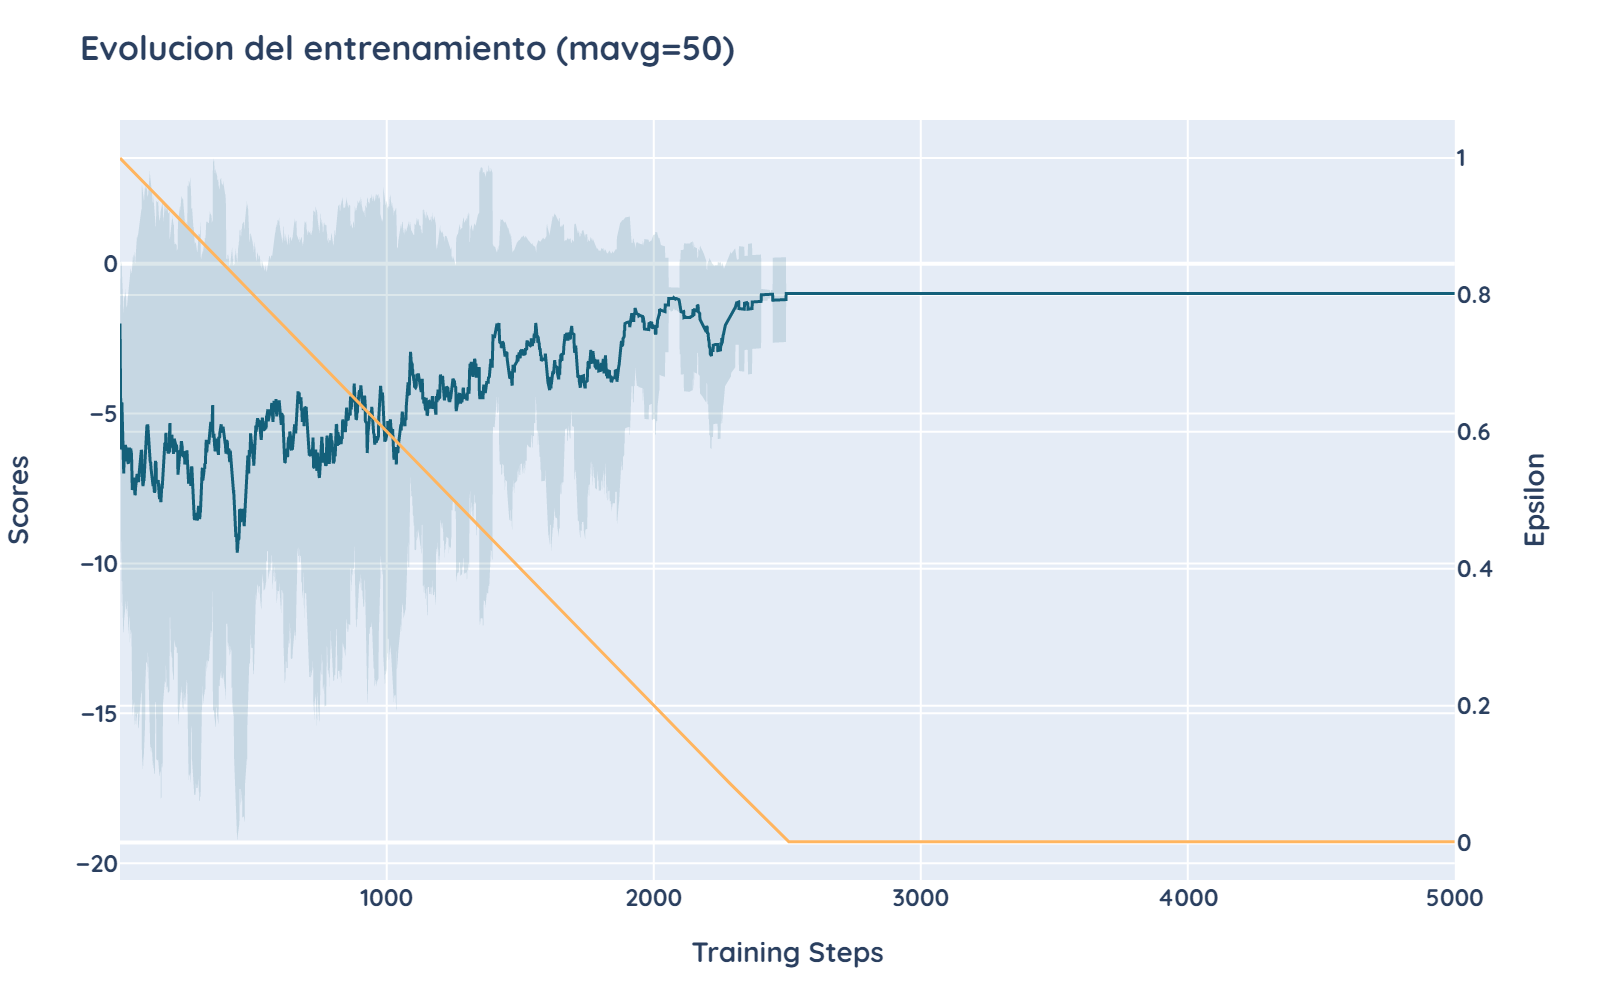
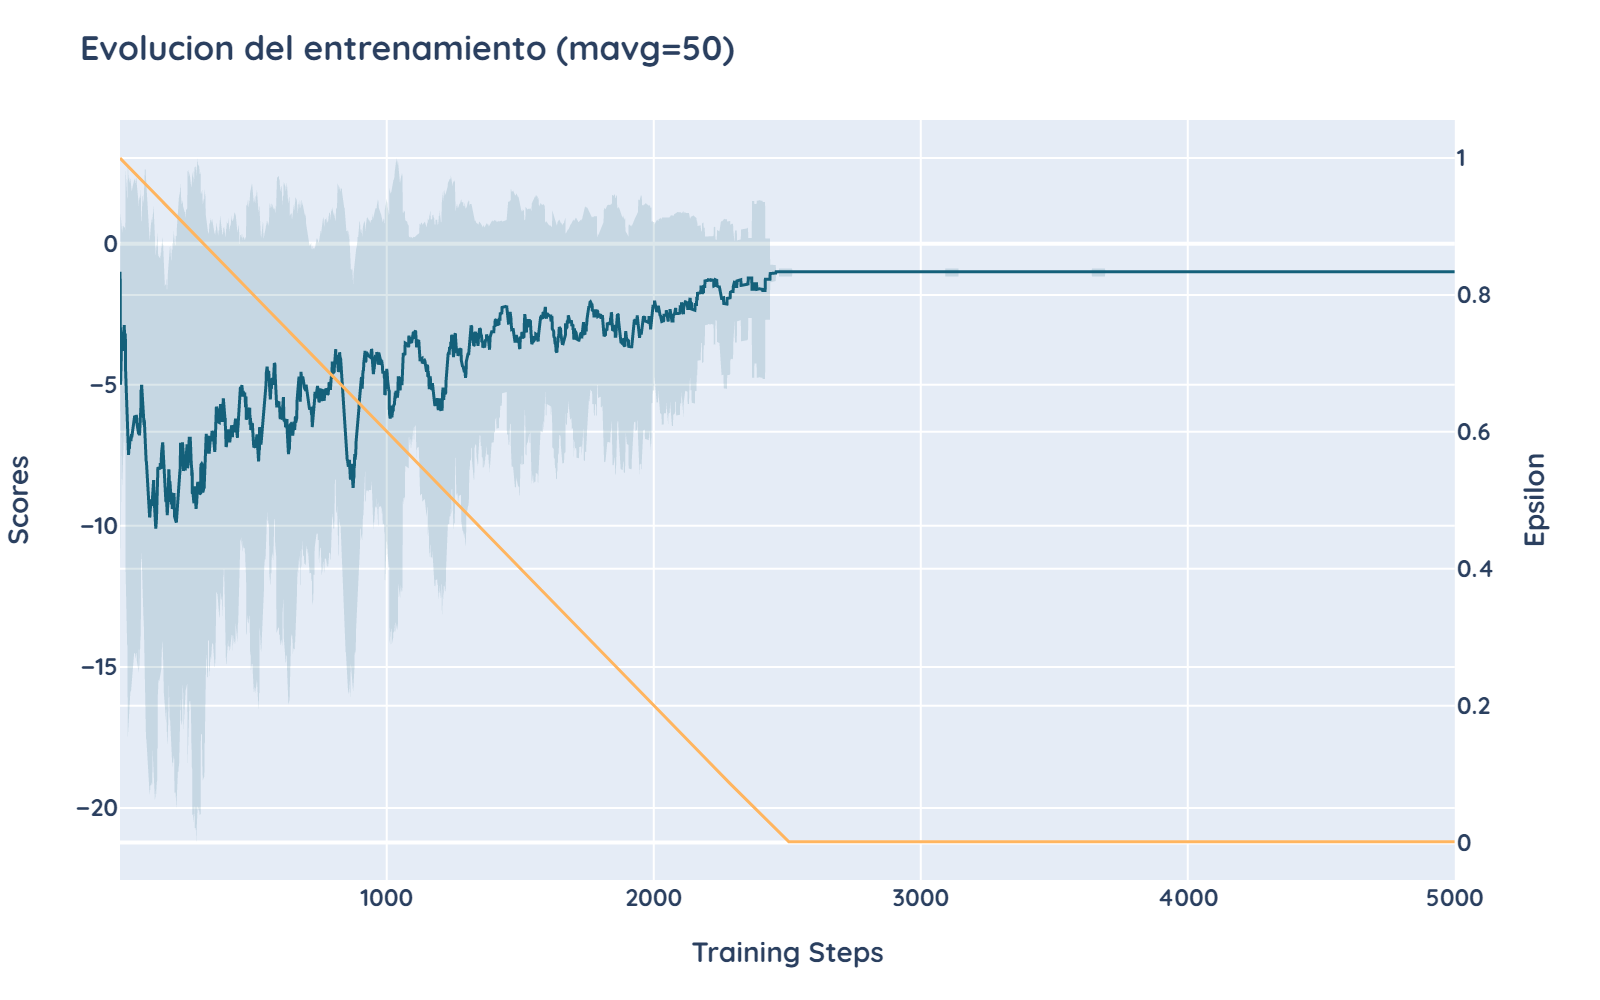
Validaciones de parametros iniciales

Changed region(s): [[0.0625, 0.155, 0.9062, 0.837], [0.0625, 0.806, 0.0938, 0.868]]

diff --git a/modelo_rl/modelo_rl/examples/modulo.py b/modelo_rl/modelo_rl/examples/modulo.py
@@ -4,11 +4,11 @@ import os
 
 path = os.path.dirname(os.path.abspath(__file__))
 
-ejemplo2 = np.array([{'id': 'uio1-port1', 'bw': 126, 'congestionado': False, 'region': 'uio', 'capacidad': 200},
+ejemplo2 = np.array([{'id': 'uio1-port1', 'bw': 199, 'congestionado': True, 'region': 'uio', 'capacidad': 200},
                      {'id': 'uio1-port2', 'bw': 29, 'congestionado': False, 'region': 'uio', 'capacidad': 100},
                      {'id': 'uio1-port3', 'bw': 49, 'congestionado': True, 'region': 'uio', 'capacidad': 50},
                      {'id': 'uio1-port4', 'bw': 27, 'congestionado': False, 'region': 'uio', 'capacidad': 50},
-                     {'id': 'uio1-port5', 'bw': 49, 'congestionado': True, 'region': 'uio', 'capacidad': 50},
+                     {'id': 'uio1-port5', 'bw': 29, 'congestionado': False, 'region': 'uio', 'capacidad': 50},
                      {'id': 'uio1-port6', 'bw': 29, 'congestionado': False, 'region': 'uio', 'capacidad': 60},
                      {'id': 'uio2-port1', 'bw': 119, 'congestionado': False, 'region': 'uio', 'capacidad': 200},
                      {'id': 'uio2-port2', 'bw': 129, 'congestionado': False, 'region': 'uio', 'capacidad': 200},
@@ -19,5 +19,5 @@ ejemplo2 = np.array([{'id': 'uio1-port1', 'bw': 126, 'congestionado': False, 're
                      {'id': 'gye2-port1', 'bw': 19, 'congestionado': False, 'region': 'gye', 'capacidad': 200},
                      {'id': 'gye3-port1', 'bw': 19, 'congestionado': False, 'region': 'gye', 'capacidad': 100}
                      ])
-acciones, _, _, _, _ = modelo_rl.solve_congestion(ejemplo2, path, log_it=False, epoch=5000)
+acciones, _, _, _, _ = modelo_rl.solve_congestion(ejemplo2, path, debug=True, epoch=5000)
 print(acciones)

diff --git a/modelo_rl/modelo_rl/plotter.py b/modelo_rl/modelo_rl/plotter.py
@@ -94,16 +94,16 @@ def plot_multi(plots, title, y_title, x_title, window=20, filename="learning_rat
             fillcolor=lower_opacity(color, 0.15),
             name=lr
         )
-        upper = go.Scatter(
-            x=obj['x'], y=upper_band, showlegend=False,
-            line={'color': color, 'width': 0},
-            fillcolor=lower_opacity(color, 0.15),
-        )
-        lower = go.Scatter(
-            x=obj['x'], y=lower_band, showlegend=False,
-            line={'color': color, 'width': 0},
-            fill='tonexty', fillcolor=lower_opacity(color, 0.15),
-        )
+        # upper = go.Scatter(
+        #     x=obj['x'], y=upper_band, showlegend=False,
+        #     line={'color': color, 'width': 0},
+        #     fillcolor=lower_opacity(color, 0.15),
+        # )
+        # lower = go.Scatter(
+        #     x=obj['x'], y=lower_band, showlegend=False,
+        #     line={'color': color, 'width': 0},
+        #     fill='tonexty', fillcolor=lower_opacity(color, 0.15),
+        # )
         data.append(graph)
         # data.append(upper)
         # data.append(lower)

diff --git a/modelo_rl/modelo_rl/main.py b/modelo_rl/modelo_rl/main.py
@@ -37,7 +37,7 @@ def get_excess(links):
     return excesos, disponibles
 
 
-def solve_congestion(links, path, log_it=False, epoch=1000) -> (list, list, list, list, str):
+def solve_congestion(links, path, debug=False, segments=100, epoch=1000) -> (list, list, list, list, str):
     # === Validacion inicial
     exceso, capacidad_disponible = get_excess(links)
 
@@ -50,7 +50,7 @@ def solve_congestion(links, path, log_it=False, epoch=1000) -> (list, list, list
         save_links(links, path)
         env = QNEnv(links=links)
         agent = QNAgent(env=env, epsilon=1.0, eps_min=0.001, lr=0.1, discount=1.0)
-        return agent.learn(path, log_it, epoch=epoch)
+        return agent.learn(path, debug=debug, segments=segments, epoch=epoch)
 
 
 def save_links(links, path):

diff --git a/modelo_rl/modelo_rl/q_learn_environment.py b/modelo_rl/modelo_rl/q_learn_environment.py
@@ -86,7 +86,7 @@ class QNEnv(object):
 
         # === Rueditas de seguridad por si el primer paso es un estado terminal
         if self.is_terminal_state():
-            return self.current_state, 0, True, "Environment is in terminal state already!"
+            return self.current_state, 0, True, f"Environment is in terminal state already!. {self.links}"
 
         # === Informativo
         self.chosen_idx = chosen_action
@@ -138,6 +138,7 @@ class QNEnv(object):
         """
         self.links = get_training_links() if links is None else links
         self.initial_state = self.get_current_state()
+        self.current_state = self.initial_state
         return self.initial_state
 
     def render(self, title):

diff --git a/modelo_rl/modelo_rl/q_learn_agent.py b/modelo_rl/modelo_rl/q_learn_agent.py
@@ -88,6 +88,8 @@ class QNAgent(object):
 
                 # === Realiza un step en el environment
                 observation_, reward, done, info = self.env.step(action)
+                if debug and logit and info:
+                    logger.warning(info)
 
                 # === Actualiza el acumulado de recompensas hasta llegar al estado terminal
                 score += reward
